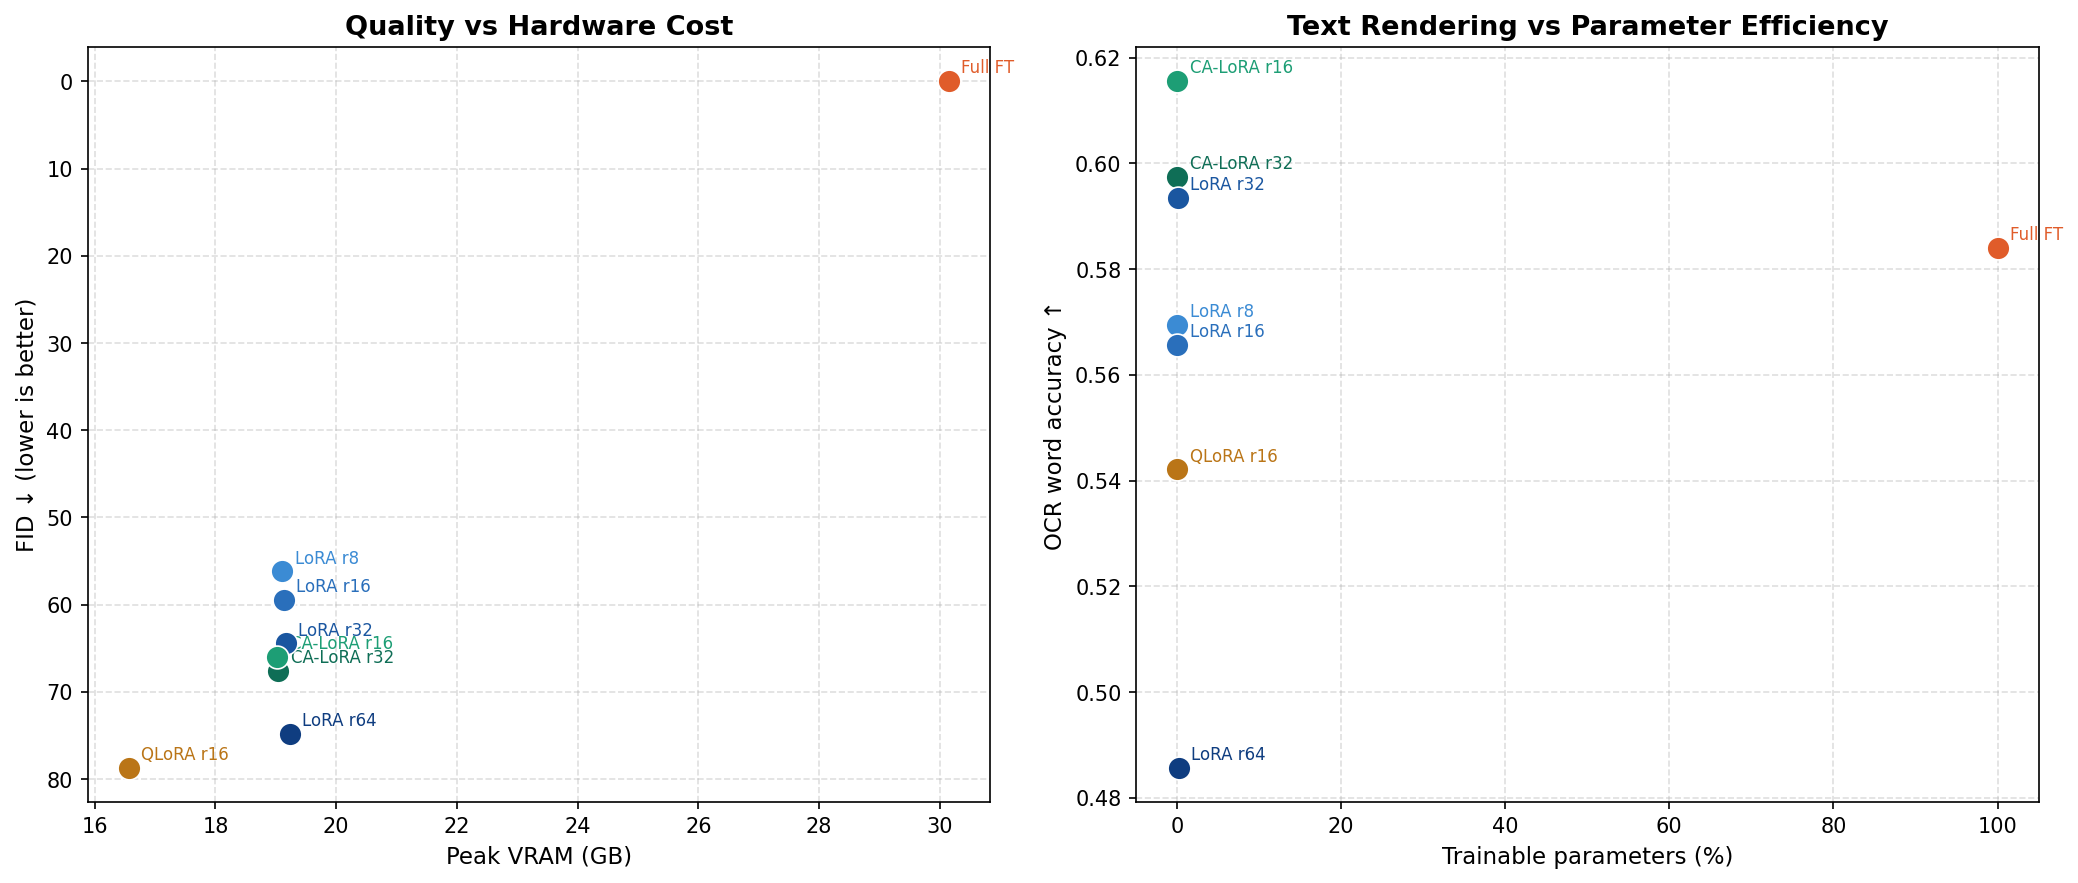
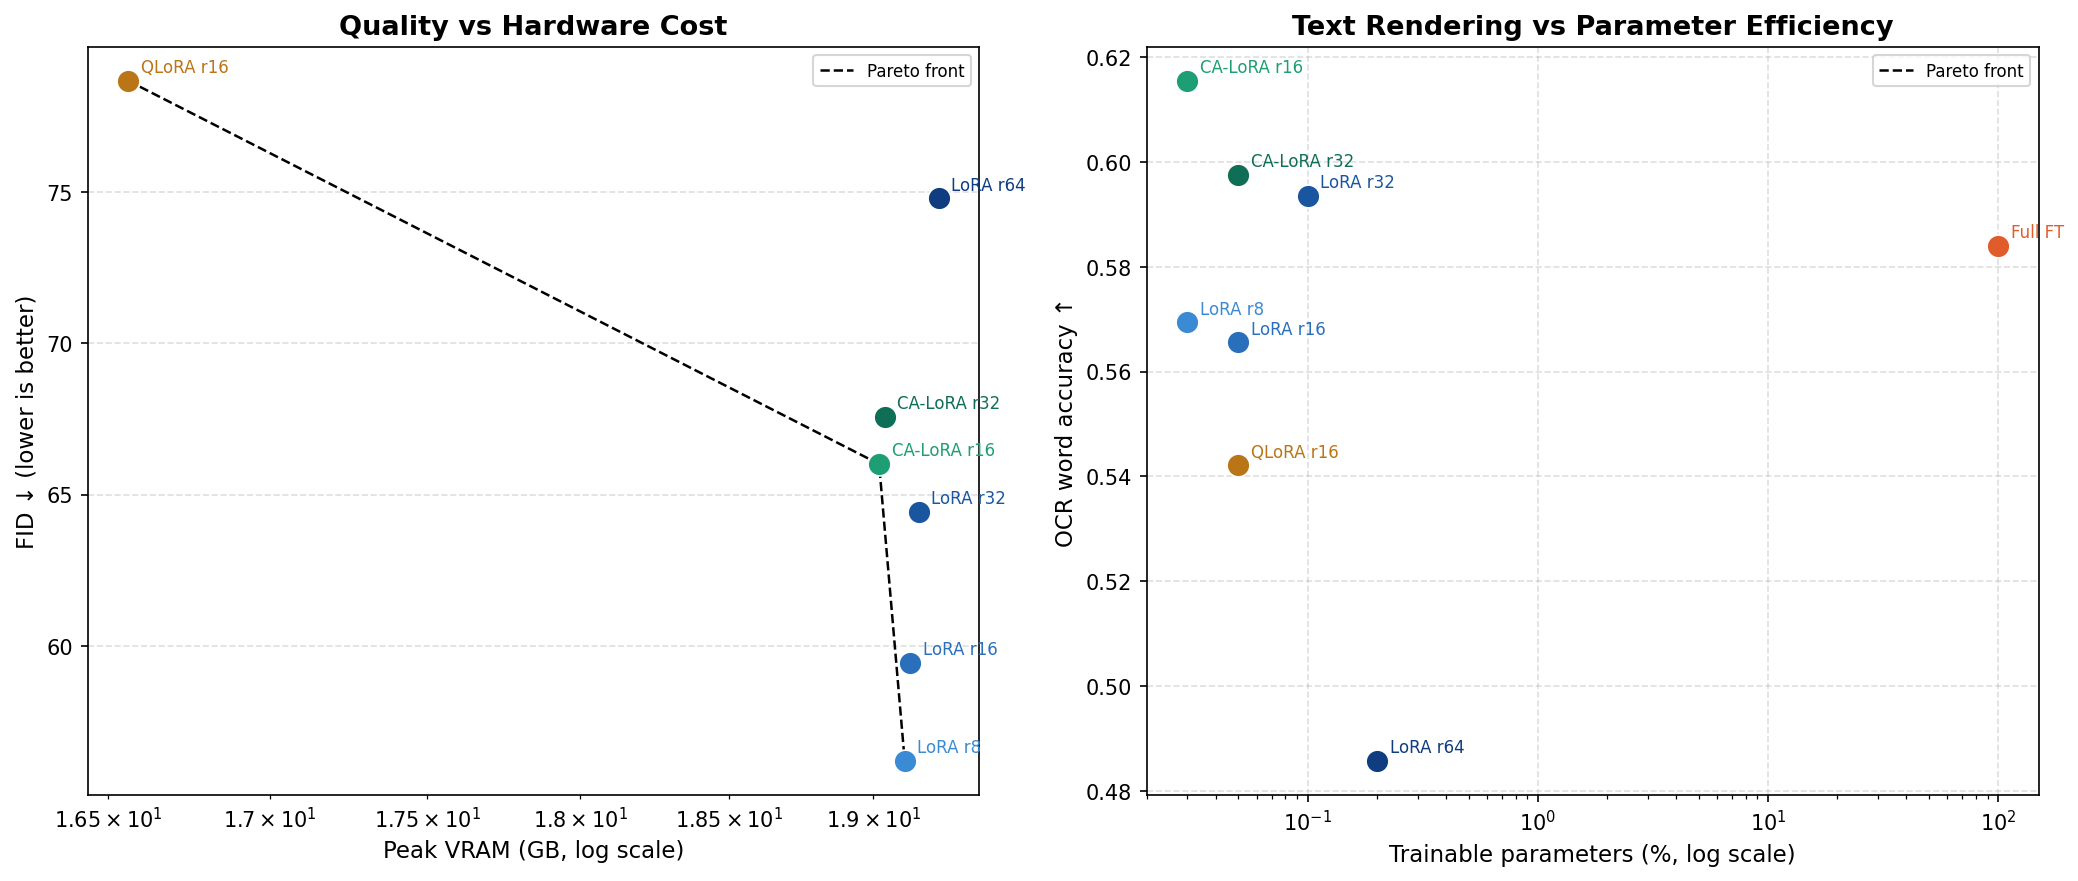
final

diff --git a/generate_plots.py b/generate_plots.py
@@ -56,46 +56,90 @@ def safe(d, *keys, default=None):
             return default
     return d
 
+def _pareto_front(xs, ys, lower_x_better=True, lower_y_better=True):
+    """Return indices of Pareto-optimal points (both axes: lower = better by default)."""
+    points = list(zip(xs, ys, range(len(xs))))
+    pareto = []
+    for x, y, i in points:
+        dominated = False
+        for x2, y2, j in points:
+            if i == j:
+                continue
+            x_better = (x2 <= x) if lower_x_better else (x2 >= x)
+            y_better = (y2 <= y) if lower_y_better else (y2 >= y)
+            x_strict = (x2 < x)  if lower_x_better else (x2 > x)
+            y_strict = (y2 < y)  if lower_y_better else (y2 > y)
+            if (x_better and y_better) and (x_strict or y_strict):
+                dominated = True
+                break
+        if not dominated:
+            pareto.append(i)
+    return pareto
+
+
 def plot_tradeoff_scatter(all_metrics):
     fig, axes = plt.subplots(1, 2, figsize=(14, 6))
-
     ax1, ax2 = axes
-    plotted = []
+
+    vrams, fids, ocr_ws, pcts = [], [], [], []
+    names_p1, names_p2 = [], []
+    colors_p1, colors_p2 = [], []
 
     for name, m in all_metrics.items():
         fid   = safe(m, "test", "fid")
-        clip  = safe(m, "test", "clip_score")
         ocr_w = safe(m, "test", "ocr_word_accuracy")
         vram  = safe(m, "training", "peak_vram_gb")
         pct   = safe(m, "training", "trainable_percentage")
         color = COLORS.get(name, "#999999")
         label = LABELS.get(name, name)
 
-        # --- Plot 1: FID vs VRAM ---
-        if fid is not None and vram is not None:
+        # Plot 1: VRAM vs FID (both lower = better)
+        if fid is not None and vram is not None and fid > 0:
             ax1.scatter(vram, fid, color=color, s=120, zorder=5,
                         edgecolors="white", linewidths=0.8)
             ax1.annotate(label, (vram, fid),
                          textcoords="offset points", xytext=(6, 4),
                          fontsize=8, color=color)
+            vrams.append(vram); fids.append(fid)
+            names_p1.append(label); colors_p1.append(color)
 
-        # --- Plot 2: OCR word accuracy vs trainable % ---
+        # Plot 2: trainable% vs OCR word accuracy (lower% better, higher OCR better)
         if ocr_w is not None and isinstance(ocr_w, float) and pct is not None:
             ax2.scatter(pct, ocr_w, color=color, s=120, zorder=5,
                         edgecolors="white", linewidths=0.8)
             ax2.annotate(label, (pct, ocr_w),
                          textcoords="offset points", xytext=(6, 4),
                          fontsize=8, color=color)
+            pcts.append(pct); ocr_ws.append(ocr_w)
+            names_p2.append(label); colors_p2.append(color)
 
-        plotted.append(name)
+    # --- Pareto front plot 1: lower VRAM + lower FID = better ---
+    if len(vrams) > 1:
+        pidx = _pareto_front(vrams, fids, lower_x_better=True, lower_y_better=True)
+        px = sorted([(vrams[i], fids[i]) for i in pidx], key=lambda t: t[0])
+        ax1.plot([p[0] for p in px], [p[1] for p in px],
+                 color="black", linewidth=1.2, linestyle="--",
+                 zorder=4, label="Pareto front")
+        ax1.legend(fontsize=8)
 
-    ax1.set_xlabel("Peak VRAM (GB)", fontsize=11)
+    # --- Pareto front plot 2: lower trainable% + higher OCR = better ---
+    if len(pcts) > 1:
+        pidx = _pareto_front(pcts, [-v for v in ocr_ws],
+                             lower_x_better=True, lower_y_better=True)
+        px = sorted([(pcts[i], ocr_ws[i]) for i in pidx], key=lambda t: t[0])
+        ax2.plot([p[0] for p in px], [p[1] for p in px],
+                 color="black", linewidth=1.2, linestyle="--",
+                 zorder=4, label="Pareto front")
+        ax2.legend(fontsize=8)
+
+    ax1.set_xscale("log")
+    ax1.set_xlabel("Peak VRAM (GB, log scale)", fontsize=11)
     ax1.set_ylabel("FID ↓ (lower is better)", fontsize=11)
     ax1.set_title("Quality vs Hardware Cost", fontsize=13, fontweight="bold")
     ax1.grid(True, linestyle="--", alpha=0.4)
-    ax1.invert_yaxis()   # lower FID = better → flip so "up = better"
 
-    ax2.set_xlabel("Trainable parameters (%)", fontsize=11)
+    ax2.set_xscale("log")
+    ax2.set_xlabel("Trainable parameters (%, log scale)", fontsize=11)
     ax2.set_ylabel("OCR word accuracy ↑", fontsize=11)
     ax2.set_title("Text Rendering vs Parameter Efficiency", fontsize=13, fontweight="bold")
     ax2.grid(True, linestyle="--", alpha=0.4)
@@ -195,14 +239,15 @@ def plot_adapter_sizes(all_metrics):
     fig, ax = plt.subplots(figsize=(10, 5))
     bars = ax.barh(names, sizes, color=colors, edgecolor="white", height=0.6)
 
-    for bar, size in zip(bars, sizes):
-        ax.text(bar.get_width() + max(sizes) * 0.01, bar.get_y() + bar.get_height() / 2,
-                f"{size:.0f} MB", va="center", fontsize=9)
-
-    ax.set_xlabel("Storage size (MB)", fontsize=11)
+    ax.set_xscale("log")
+    ax.set_xlabel("Storage size (MB, log scale)", fontsize=11)
     ax.set_title("Adapter / Checkpoint Size on Disk", fontsize=13, fontweight="bold")
     ax.grid(axis="x", linestyle="--", alpha=0.4)
-    ax.set_xlim(0, max(sizes) * 1.15)
+    ax.set_xlim(1, max(sizes) * 3)
+    for bar, size in zip(bars, sizes):
+        label = f"{size:.0f} MB" if size < 1000 else f"{size/1024:.1f} GB"
+        ax.text(bar.get_width() * 1.05, bar.get_y() + bar.get_height() / 2,
+                label, va="center", fontsize=9)
 
     plt.tight_layout()
     out = PLOTS_DIR / "adapter_sizes.png"